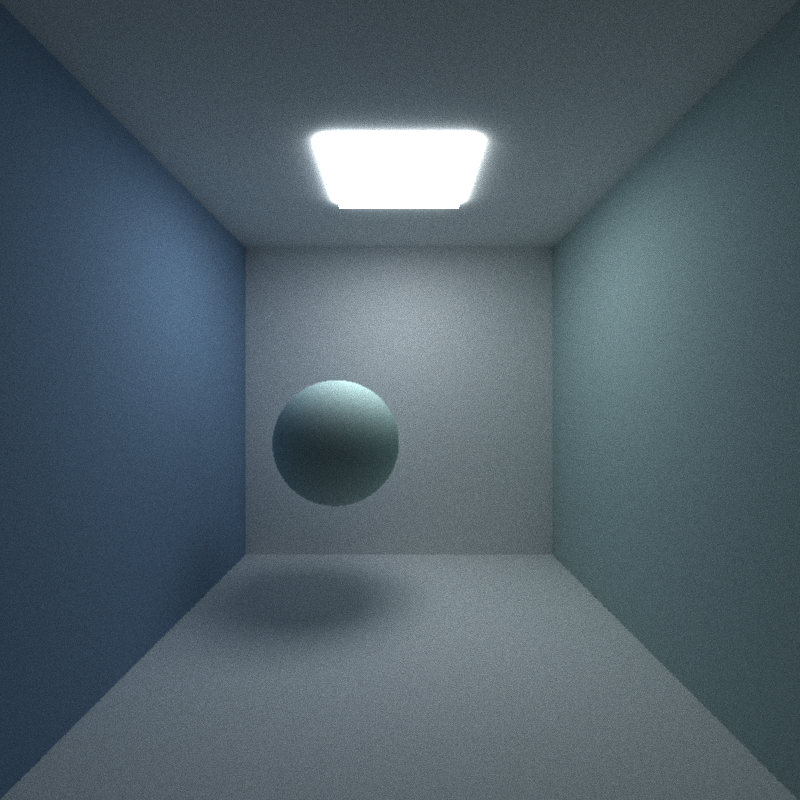
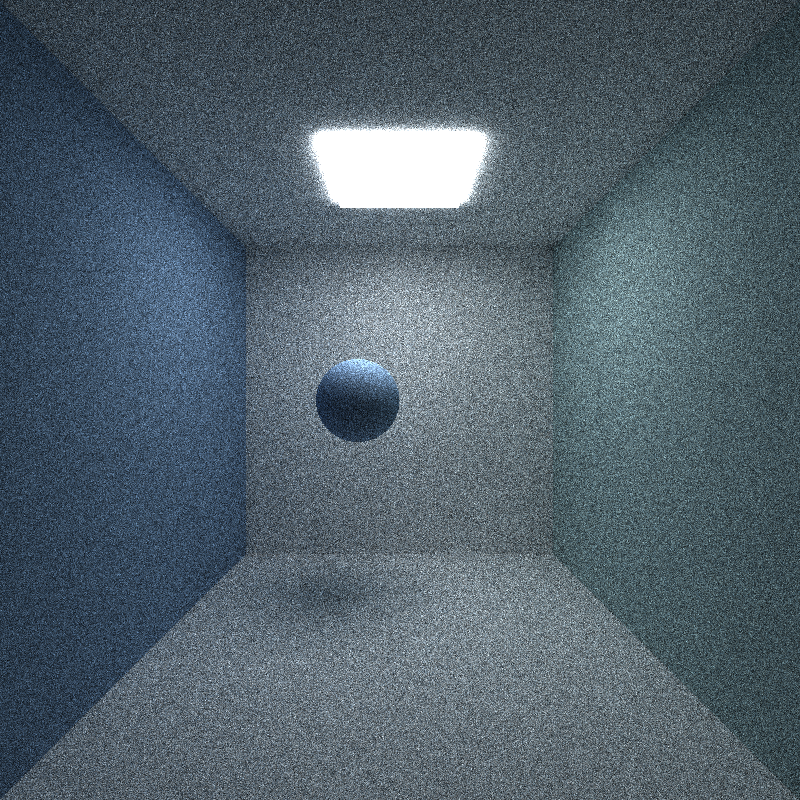
update README

diff --git a/README.md b/README.md
@@ -49,9 +49,19 @@ Motion Blur is achieved by sending each ray at some random time when the shutter
 | ------------------------ | ----------------------- |
 | ![](img/motionblur0.png) | ![](img/motionblur.png) |
 
+#### Hemisphere Sampling
+
+The hemisphere sampling methods will also interfere the results of renders. I implemented stratified sampling against original random sampling. Stratified sampling requires us to estimate how many samples we'll use. I rendered with 200 iterations and 8 depths. You can see the slightly different shadows in the following renders. 
+
+| Random Sampling     | Stratified Sampling     |
+| ------------------- | ----------------------- |
+| ![](img/random.png) | ![](img/stratified.png) |
+
 #### OBJ Loading 
 
 I implemented arbitrary OBJ mesh loading and rendering. I use [tinyObj](https://github.com/tinyobjloader/tinyobjloader) for loading the OBJ files. In order to accelerate the rendering, I create bounding volume for meshes and do intersection culling by first testing the bounding box before testing the triangles.
+
+![](img/bunny.png)
 
 ### Optimizations
 
